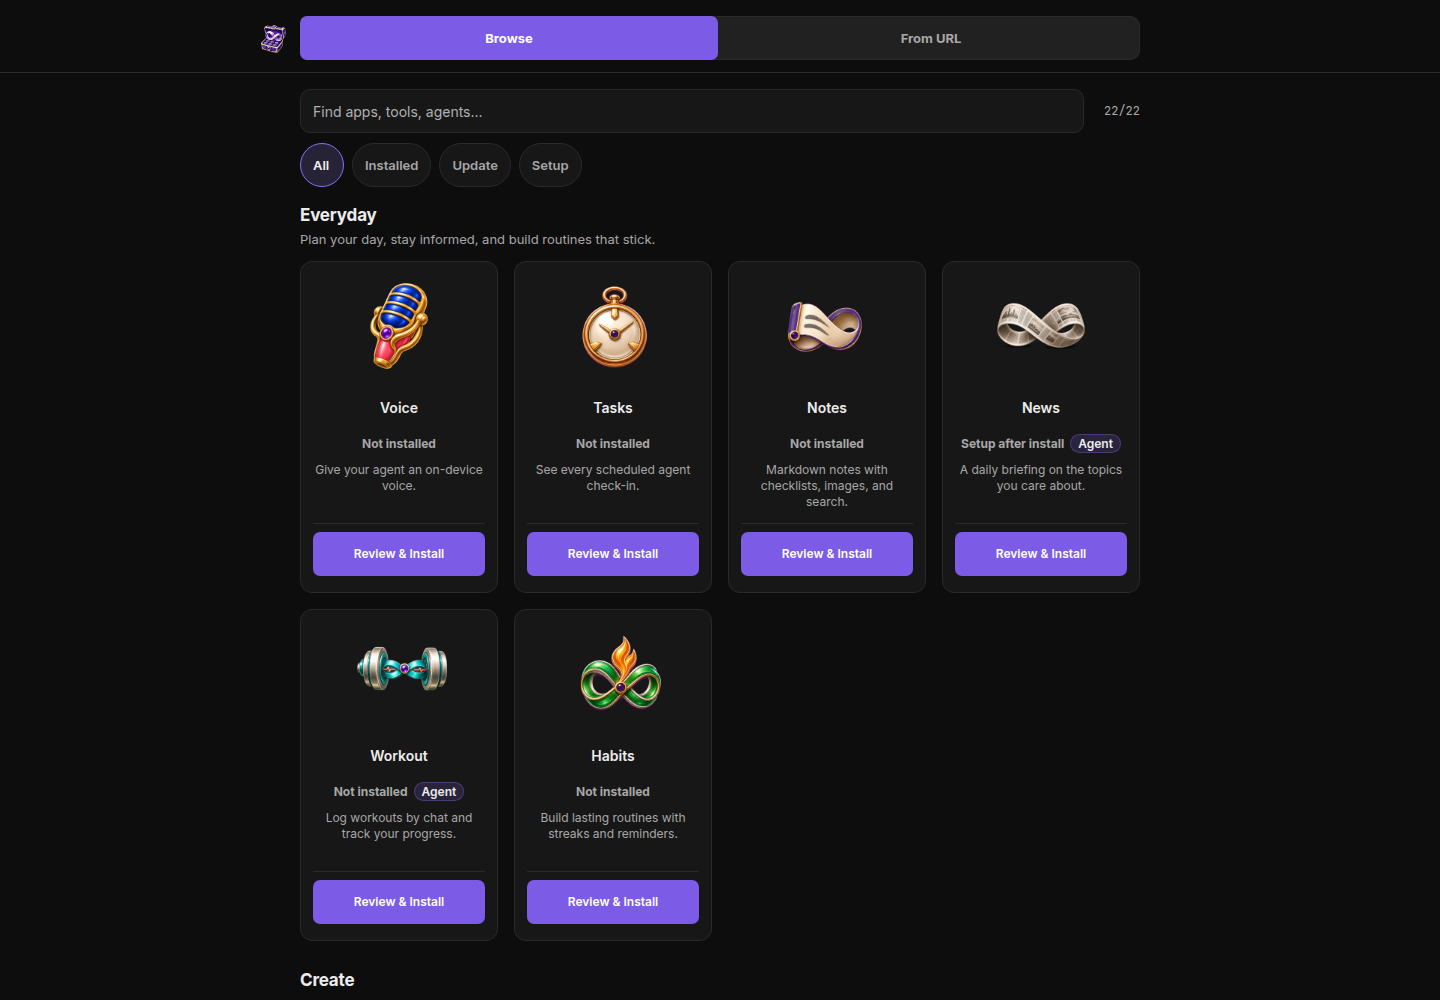
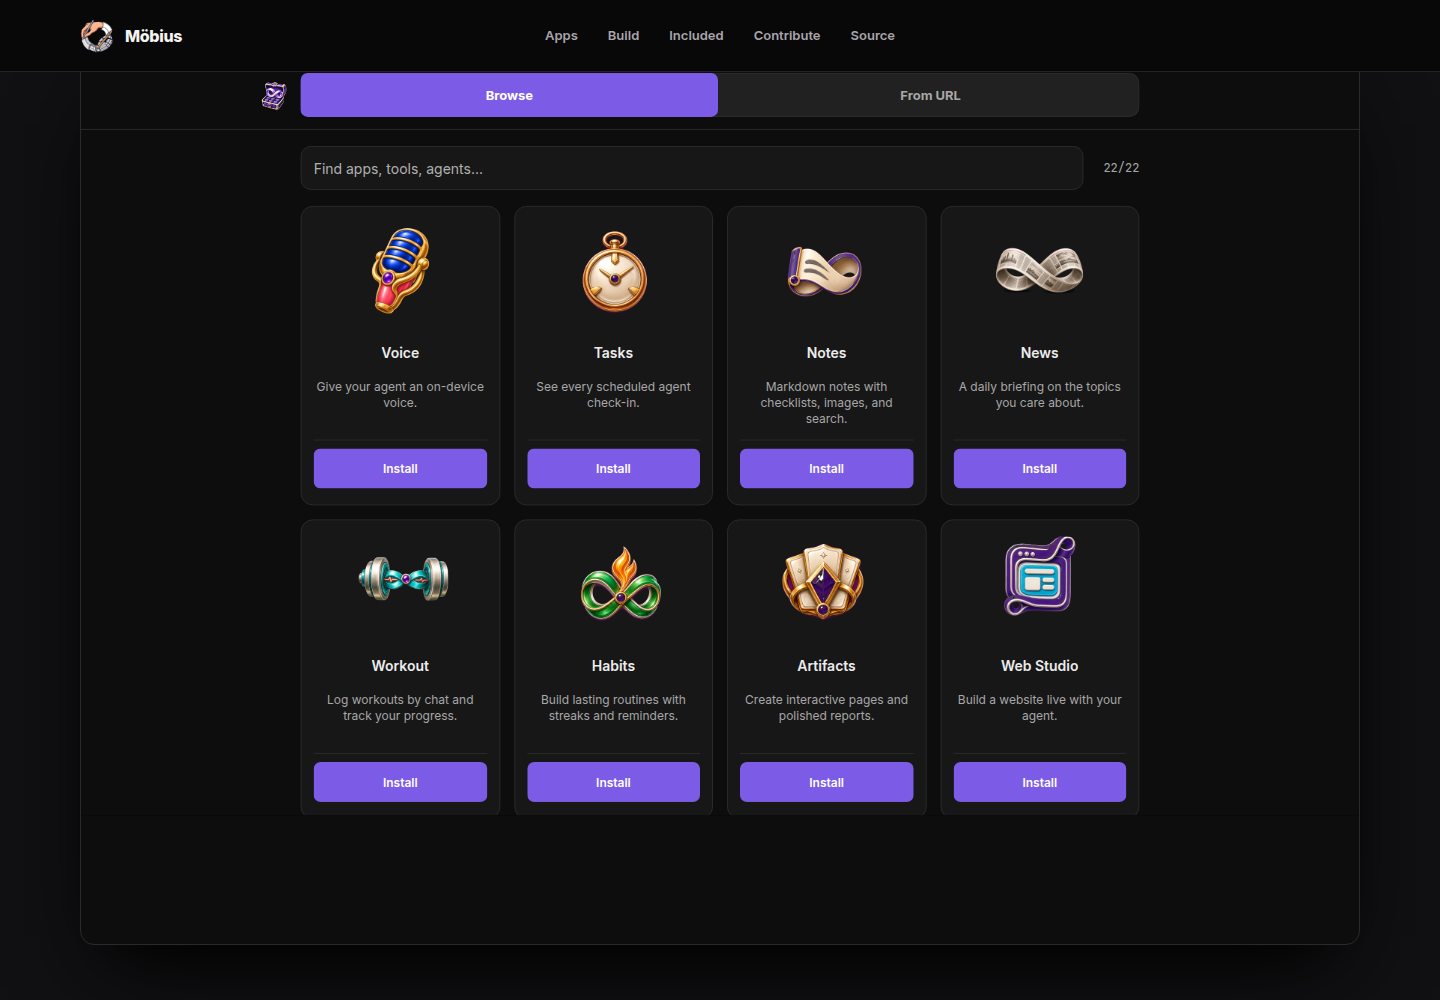
Simplify App Store README showcase

diff --git a/README.md b/README.md
@@ -33,9 +33,9 @@ The [app-building story](https://mobius.you/#build) renders the current shell as
 
 ## Start with the App Store
 
-The App Store includes everyday tools and the parts that help Möbius run itself. Browse apps for writing, planning, learning, health, creation, memory, connected tools, background work, and development. Its collections, summaries, state, and artwork come from the published apps. The [App Store showcase](https://mobius.you/#apps) renders the current catalog inside the production Möbius shell.
+The App Store includes everyday tools and the parts that help Möbius run itself. Browse apps for writing, planning, learning, health, creation, memory, connected tools, background work, and development. The [App Store showcase](https://mobius.you/#apps) keeps the catalog deliberately simple: one grid, the current published artwork and summaries, and a direct Install action on every card.
 
-![The current Möbius App Store with its Browse and From URL tabs, filters, collections, and vertical app cards](assets/product/app-store.png)
+![The current Möbius App Store as one grid of published apps with direct Install actions](assets/product/app-store.png)
 
 <table>
   <tr>
